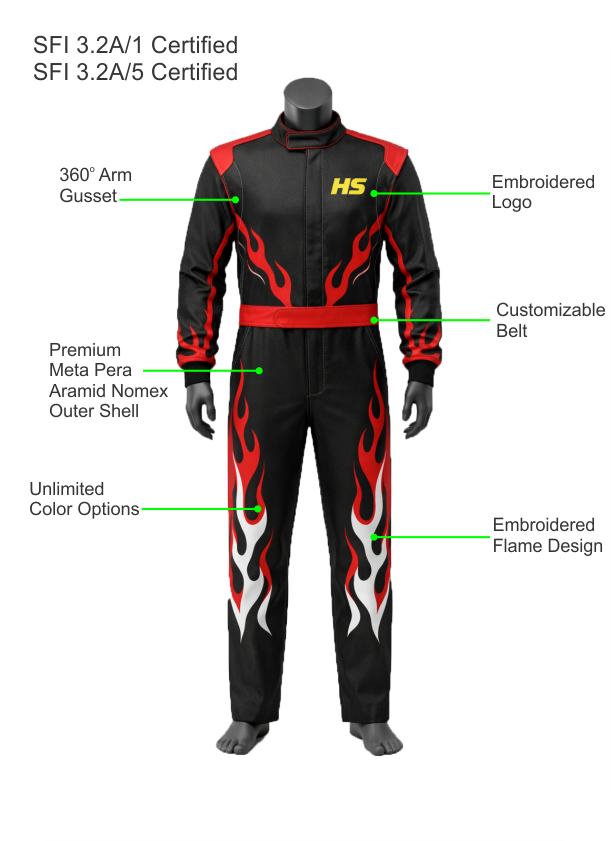
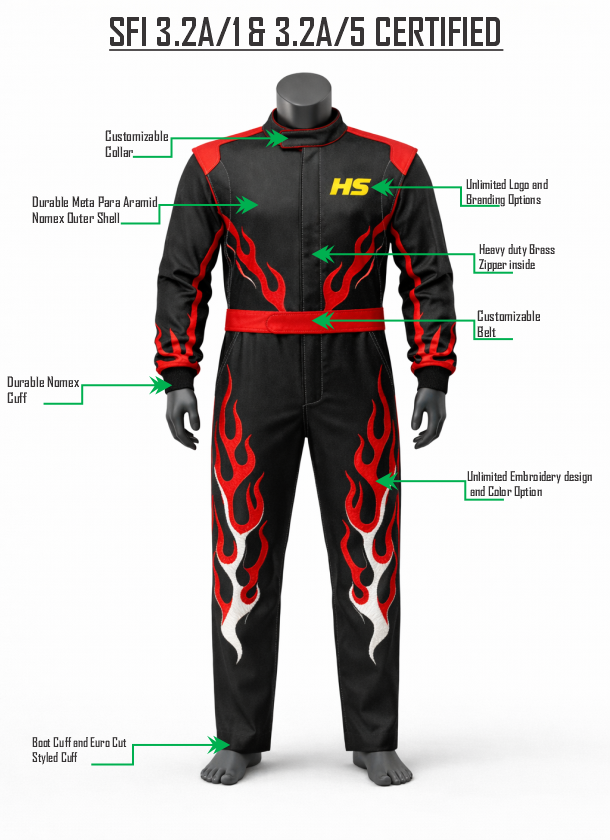
ready_to_equipt_image_reupload

Changed region(s): [[0.0, 0.0, 0.9967, 0.9595], [0.0311, 0.8667, 0.218, 0.9286], [0.5295, 0.8048, 0.5607, 0.8357]]

diff --git a/components/hsRaceGear/homepage/ProductSpecsSection.jsx b/components/hsRaceGear/homepage/ProductSpecsSection.jsx
@@ -7,7 +7,7 @@ import Link from "next/link";
 const products = [
   {
     title: "Racing Suit",
-    image: "/images/home/SuitBanner.webp",
+    image: "/images/home/SuitBanner.png",
     link: "/custom-race-suit",
     sfi: "SFI 3.2A/1 & 3.2A/5",
     specs: [
@@ -23,7 +23,7 @@ const products = [
   },
   {
     title: "Racing Shoes",
-    image: "/images/home/ShoesBanner.webp",
+    image: "/images/home/SHOES_BANNER.png",
     link: "/custom-shoes",
     sfi: "SFI 3.3/5",
     specs: [
@@ -39,7 +39,7 @@ const products = [
   },
   {
     title: "Racing Gloves",
-    image: "/images/home/GlovesBanner.webp",
+    image: "/images/home/GLOVES_BANNER.png",
     link: "/custom-gloves",
     sfi: "SFI 3.3/5",
     specs: [
